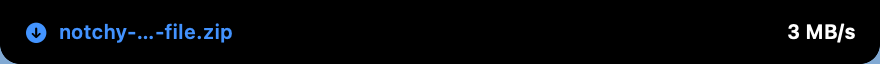
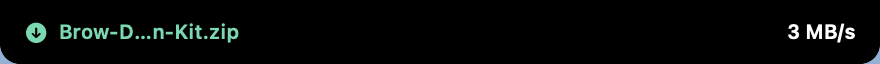
chore: drop the Notchy name and the settings migration
Brow is presented as Brow from the start: no rename banner, FAQ entry or
README note, and the download sample no longer shows the old name.

Changed region(s): [[0.0307, 0.3438, 0.2761, 0.6875]]

diff --git a/docs/index.html b/docs/index.html
@@ -324,7 +324,7 @@ nav.scrolled { box-shadow: 0 1px 0 var(--border); }
 </head>
 <body>
 
-<div class="banner"><a href="#faq">✦ Notchy is now Brow. Your settings, pins and Shelf come along. <i data-lucide="arrow-right"></i></a></div>
+<div class="banner"><a href="#customize">✦ New: a Mini size that opens just like the notch apps you know. <i data-lucide="arrow-right"></i></a></div>
 
 <nav>
   <div class="wrap">
@@ -501,7 +501,6 @@ nav.scrolled { box-shadow: 0 1px 0 var(--border); }
       <details><summary>Does it work on a Mac without a notch?<i data-lucide="chevron-down"></i></summary><p>Yes. On Macs without a notch, Brow draws a notch-like strip at the top centre of the screen. Pick the floating shape in Settings if you prefer it detached.</p></details>
       <details open><summary>Why does macOS say the app can't be opened?<i data-lucide="chevron-down"></i></summary><p>Brow is ad-hoc signed, not notarized. Right-click the app and choose Open once, or run <code>xattr -dr com.apple.quarantine /Applications/Brow.app</code>.</p></details>
       <details><summary>Is my location sent anywhere?<i data-lucide="chevron-down"></i></summary><p>Prayer times are worked out on your Mac. For the weather, only your place's coordinates go to Open-Meteo, with no account, no key and no tracking. Lyrics lookups send just the song title and artist.</p></details>
-      <details><summary>Coming from Notchy?<i data-lucide="chevron-down"></i></summary><p>Brow is the same app under a new name. Settings, pins and Shelf come along on first launch. Turn Open at login on again, then delete Notchy.app.</p></details>
       <details><summary>Does it need Accessibility permission?<i data-lucide="chevron-down"></i></summary><p>Only for Messages, to read the unread badges on Dock icons (just the numbers). Everything else, including the ⌥ Space shortcut, works without it.</p></details>
       <details><summary>Can I use it on Intel Macs?<i data-lucide="chevron-down"></i></summary><p>Yes. Brow is a universal app for Apple silicon and Intel on macOS 14 or later. Brightness for external monitors over DDC works on Apple silicon only.</p></details>
     </div>

diff --git a/Sources/Brow/App.swift b/Sources/Brow/App.swift
@@ -20,7 +20,6 @@ final class AppDelegate: NSObject, NSApplicationDelegate {
 
     func applicationDidFinishLaunching(_ notification: Notification) {
         Font.registerAppFonts()
-        Self.migrateFromNotchy()
         model = AppModel()
         controller = NotchController(model: model)
 
@@ -39,16 +38,6 @@ final class AppDelegate: NSObject, NSApplicationDelegate {
         menu.addItem(.separator())
         menu.addItem(withTitle: "Quit Brow", action: #selector(NSApplication.terminate(_:)), keyEquivalent: "q")
         statusItem.menu = menu
-    }
-
-    // The app was called Notchy: its settings, pins and Shelf come along the first time Brow opens.
-    private static func migrateFromNotchy() {
-        let defaults = UserDefaults.standard
-        guard let id = Bundle.main.bundleIdentifier, !defaults.bool(forKey: "migratedFromNotchy") else { return }
-        if let old = defaults.persistentDomain(forName: "id.morfotech.notchy"), !old.isEmpty {
-            defaults.setPersistentDomain(old.merging(defaults.persistentDomain(forName: id) ?? [:]) { $1 }, forName: id)
-        }
-        defaults.set(true, forKey: "migratedFromNotchy")
     }
 
     @objc private func openNotch() { controller.expand(pinned: true) }

diff --git a/README.md b/README.md
@@ -119,7 +119,6 @@ Brow is written in Swift and SwiftUI with no third-party dependencies. The downl
 
 Requires macOS 14 or later, as a universal binary for Apple silicon and Intel. Brightness control for external monitors works on Apple silicon only.
 
-**Coming from Notchy?** Brow is the same app under a new name. Your settings, pins and Shelf come along on first launch. Turn **Open at login** on again in Settings, then delete Notchy.app.
 
 macOS asks for access only when a feature needs it:
 
